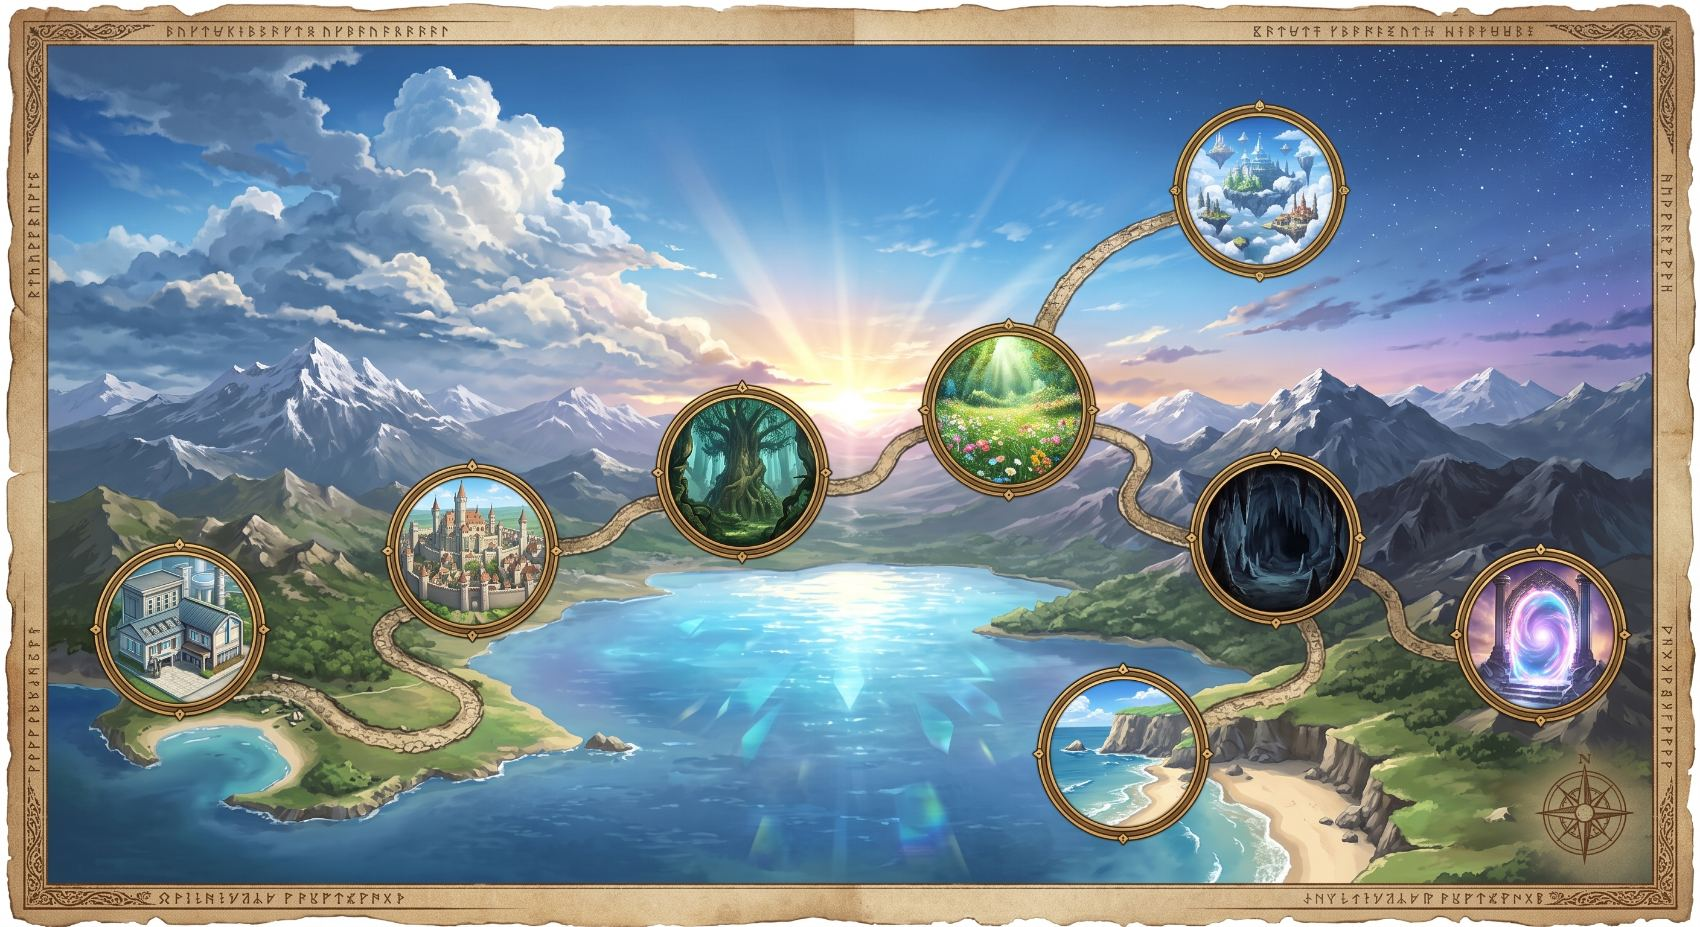
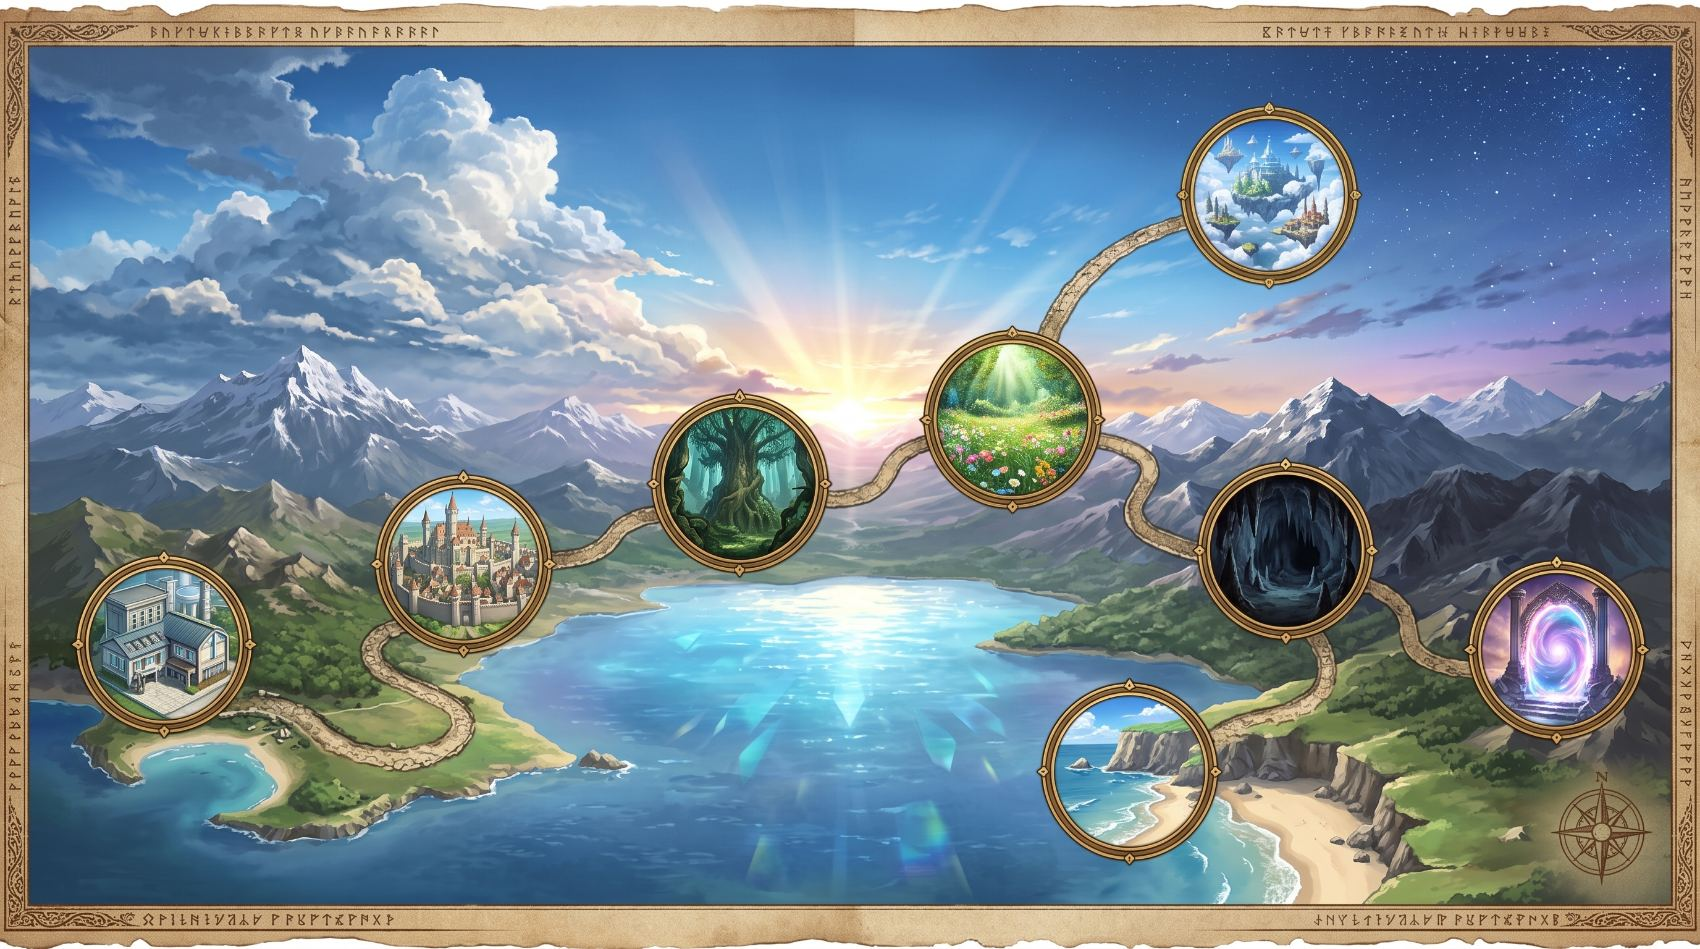
Add files via upload

diff --git a/index.html b/index.html
@@ -890,33 +890,33 @@ function isLocComplete(locId){
 
 // ═══════════ LOCATIONS ═══════════
 const LOCS={
-  oak:{id:'oak',name:'Лабораторія',mLabel:'Лабораторія',emoji:'🧪',cx:49,cy:165,
+  oak:{id:'oak',name:'Лабораторія',mLabel:'Лабораторія',emoji:'🧪',cx:44,cy:166,
     color:'#1e3a1e',stroke:'#4ade80',badge:'Старт',badgeBg:'rgba(var(--ok-rgb),.2)',badgeTxt:'#4ade80',
     unlockReq:null},
-  pallet:{id:'pallet',name:'Містечко',mLabel:'Містечко',emoji:'🏘',cx:128,cy:144,
+  pallet:{id:'pallet',name:'Містечко',mLabel:'Містечко',emoji:'🏘',cx:126,cy:145,
     color:'#166534',stroke:'#4ade80',badge:'Зона 1',badgeBg:'rgba(var(--ok-rgb),.15)',badgeTxt:'#4ade80',
     unlockReq:{type:'keyChain',chainId:'pikachu',stageIdx:1}},
-  forest:{id:'forest',name:'Ліс',mLabel:'Ліс',emoji:'🌲',cx:201,cy:122,
+  forest:{id:'forest',name:'Ліс',mLabel:'Ліс',emoji:'🌲',cx:200,cy:122,
     color:'#064e3b',stroke:'#34d399',badge:'Зона 2',badgeBg:'rgba(52,211,153,.2)',badgeTxt:'#34d399',
     unlockReq:{type:'keyChain',chainId:'abra',stageIdx:3}},
-  glade:{id:'glade',name:'Поляна',mLabel:'Поляна',emoji:'🌸',cx:273,cy:105,
+  glade:{id:'glade',name:'Поляна',mLabel:'Поляна',emoji:'🌸',cx:274,cy:106,
     color:'#3b0764',stroke:'#a78bfa',badge:'Зона 3',badgeBg:'rgba(167,139,250,.2)',badgeTxt:'#a78bfa',
     unlockReq:{type:'locMega',loc:'forest'}},
-  butterfly:{id:'butterfly',name:'Повітряні острови',mLabel:'Острови',emoji:'☁',cx:341,cy:46,
+  butterfly:{id:'butterfly',name:'Повітряні острови',mLabel:'Острови',emoji:'☁',cx:344,cy:44,
     color:'#1e3a5f',stroke:'#93c5fd',badge:'Зона 3',badgeBg:'rgba(147,197,253,.2)',badgeTxt:'#93c5fd',
     unlockReq:{type:'keyChain',chainId:'pinsir',stageIdx:1}},
-  caves:{id:'caves',name:'Печери',mLabel:'Печери',emoji:'⛏',cx:345,cy:140,
+  caves:{id:'caves',name:'Печери',mLabel:'Печери',emoji:'⛏',cx:348,cy:140,
     color:'#1c1917',stroke:'#a8a29e',badge:'Зона 4',badgeBg:'rgba(168,162,158,.2)',badgeTxt:'#a8a29e',
     unlockReq:{type:'count',locs:['oak','pallet','forest','glade','butterfly'],need:30}},
-  shore:{id:'shore',name:'Берег',mLabel:'Берег',emoji:'🌊',cx:304,cy:198,
+  shore:{id:'shore',name:'Берег',mLabel:'Берег',emoji:'🌊',cx:306,cy:200,
     color:'#0c2a4a',stroke:'#38bdf8',badge:'Зона 5',badgeBg:'rgba(56,189,248,.2)',badgeTxt:'#38bdf8',
     unlockReq:{type:'count',locs:['oak','pallet','forest','glade','butterfly','caves'],need:47}},
-  map2:{id:'map2',name:'Новий Регіон',mLabel:'Новий Регіон',emoji:'🌏',cx:417,cy:166,
+  map2:{id:'map2',name:'Новий Регіон',mLabel:'Новий Регіон',emoji:'🌏',cx:420,cy:168,
     color:'#172554',stroke:'#60a5fa',badge:'Карта 2',badgeBg:'rgba(96,165,250,.2)',badgeTxt:'#60a5fa',
     unlockReq:{type:'megaCount',locs:['oak','pallet','forest','glade','butterfly','caves','shore'],need:12}},
 };
 const ALL_KANTO_LOCS=Object.keys(LOCS);
-const SHOP_NODE={cx:55,cy:52,color:'#3f2a0e',stroke:'#fbbf24'};
+const SHOP_NODE={cx:51,cy:50,color:'#3f2a0e',stroke:'#fbbf24'};
 
 const LOCS_JOHTO={
   newbark:{id:'newbark',name:'Нове містечко',mLabel:'Нове містечко',emoji:'🏙',cx:200,cy:120,
